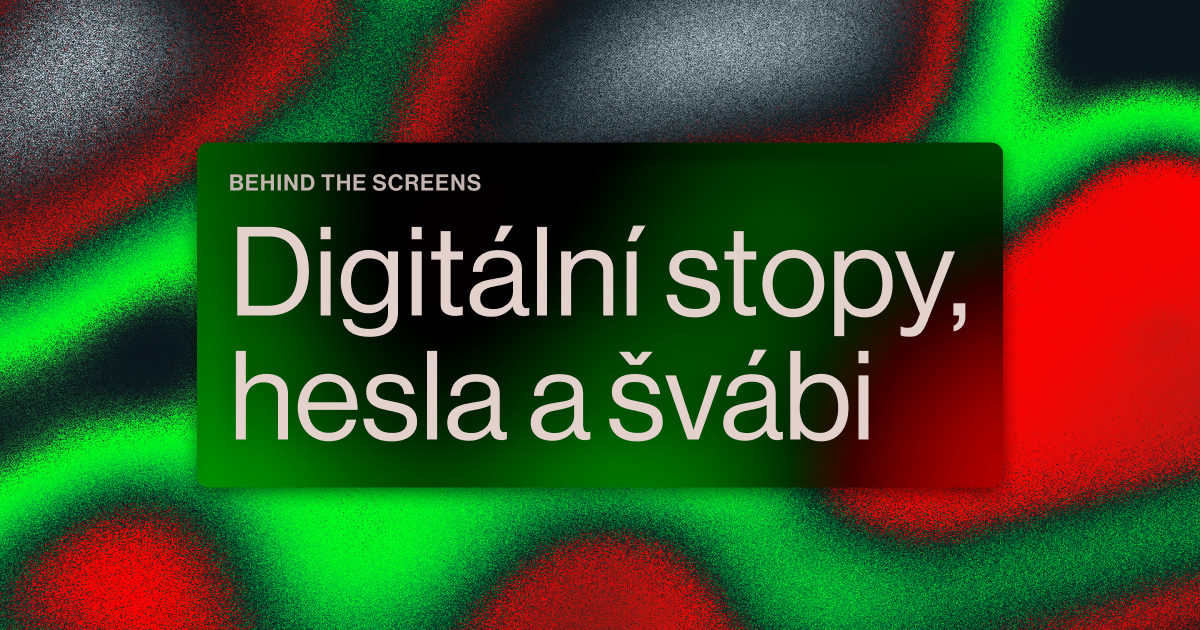
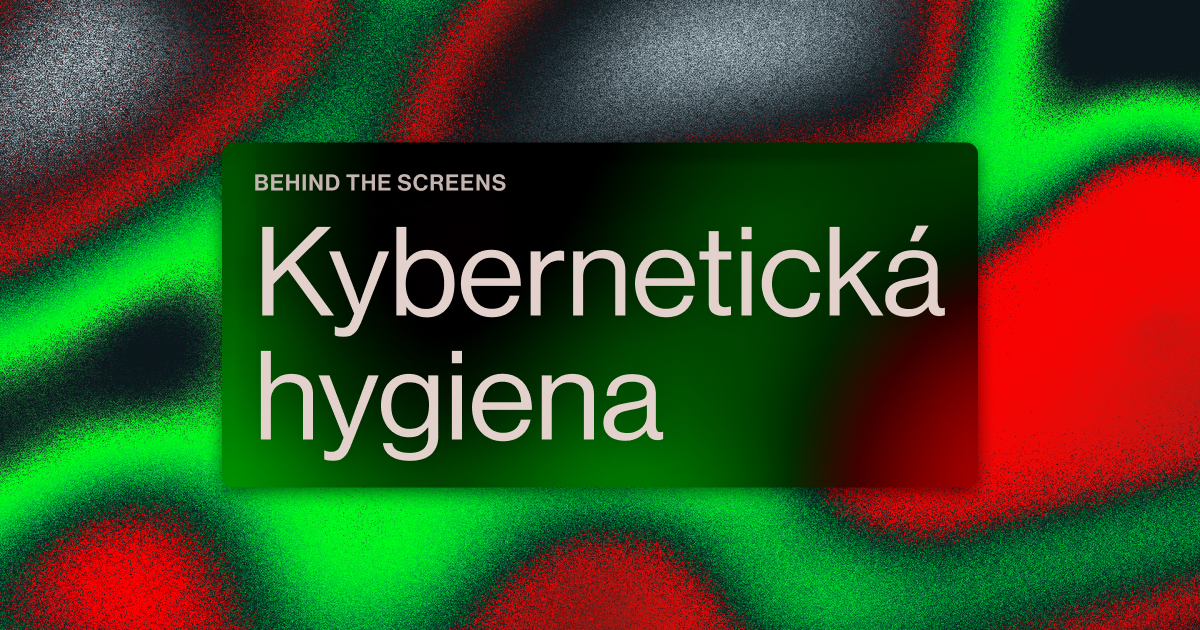
bts-20 edit

Changed region(s): [[0.1542, 0.2111, 0.74, 0.7841], [0.6783, 0.2111, 0.8633, 0.8143]]

diff --git a/_posts/2024-07-31-kyber-hygiena.md b/_posts/2024-07-31-kyber-hygiena.md
@@ -1,0 +1,144 @@
+---
+layout: post
+author: scherrer.txt
+title: "Kybernetická hygiena | Behind the Screens | by Scherrer.txt"
+name: Kybernetická hygiena
+release: 2024/07
+perex: O soukromí, bezpečnosti a redukci digitální stopy z pohledu chronicky online člověka
+order: "20"
+thumbnail: "/images/thumbs/bts-thumb-20.jpg"
+background: "/images/bg/20.avif"
+redirect_from: "/bts20.html"
+published: true
+---
+
+<div id="toc"></div>
+* TOC
+{:toc}
+
+## Rychlý úvod
+Můj červen 2024 měl příchuť mazání neaktivních a nepotřebných účtů a digitálních dat. Vnímám je jako potenciální bezpečnostní riziko — a taky už mám dost nevyžádaných reklamních sdělení a e-mailů s upozorněním, že se mi někdo snaží dostat do nějakýho účtu.
+
+Různý úniky dat (*leak*) se dějou relativně často — unikají data jako e-maily a hesla, adresy bydliště, údaje z občanky a pasu nebo čísla účtu, kreditních karet a PINy. Existují stránky, kde se dá zjistit, jestli vaše hesla/e-mail/jakýkoliv jiný údaje nebyly kompromitovaný — [Have I Been Pwned](https://haveibeenpwned.com/) a [Mozilla Monitor](https://monitor.mozilla.org). Já se v těchhle databázích párkrát našel a nebylo to úplně příjemný zjištění. Ale dá se to řešit. Jak jsem to řešil já?
+
+> Pod hadrama jsme všichni nazí, ale stejně je nosíme. Stejně máme v pokoji záclony anebo závěsy.
+
+## Vždyť je to stejně jedno
+Spousta z nás si při odchodu ze záchodu celkem běžně myje ruce, zamyká při odchodu byt, počítač a mobil má na heslo, používá kondomy nebo aspoň neolizuje zábradlí a madla v MHD — nevidím důvod zůstávat v oblasti kyberbezpečnosti a soukromí jen u důvěry a naděje v lidstvo a dál to neřešit. Better safe than sorry, jak se říká.
+
+Zkusím rozebrat tři nejčastější argumenty, s kterýma jsem se setkal, a říct, proč bezpečnost a soukromí jedno fakt nejsou.
+
+1. **„Stejně už tvoje data mají“**
+    - Jo, je blbý, že třeba Google a Meta mají moje data za posledních ~16 let. Rozhodně to ale není důvod, abych nad tím mávl rukou — to by bylo jako říct, že na co si umývat ruce, když už je mám stejně ušpiněný. Ať si moje starý data nechají, nový jim ale dávat nechci (minimálně ne tak jednoduše).
+
+2. **„Stejně si na tobě nemají co vzít“**
+    - Pod hadrama jsme všichni nazí, ale stejně je nosíme. Stejně máme v pokoji záclony anebo závěsy. Nemám co skrývat. Zároveň ale nepotřebuju, aby měla dostatečně ochotná entita možnost hrabat se v mých datech a zneužívat je, nebo na nich trénovat AI, nebo aby je měla někde na serveru, z kterýho ty data leaknou — a to není otázka „*jestli*“, ale „*kdy*“.
+
+3. **„Tvoje data nikoho nezajímají“**
+    - Já osobně zajímám docela dost lidí z Asie. Aspoň podle asi třiceti varovných e-mailů, který mi v horizontu dvou měsíců přišly od služeb, do kterých se někdo z těchhle zemí snažil (neúspěšně) přihlásit. V tomhle případě navíc ani nejde o moje/tvoje, ale o *naše* data. Jde o to množství hesel a údajů, s kterýma se dá pracovat, který se často kupují v balících po desítkách milionů.
+    - I když je úspěšnost prolomení zabezpečení třeba 0,001 %, z deseti milionů účtů je to pořád tisícovka smolařů, co můžou přijít o úspory nebo přístup k osobním/pracovním účtům.
+
+> Já tuhle možnost měl, tak jsem ji uplatnil. Mrzí mě, že ji lidi přede mnou neměli.
+
+## Kámen, co spustil lavinu
+Nedávno Meta dala svým uživatelům možnost neposkytnout souhlas s trénováním AI na jejich obsahu.[^1] Já byl jeden z těch, co ten souhlas nedal (týhle možnosti se říká „opt-out“). Je mi jedno, že to může působit pokrytecky, když sám používám AI, která je trénovaná na dílech lidí, co tuhle možnost neměli. Já tuhle možnost měl, tak jsem ji uplatnil. Mrzí mě, že ji lidi přede mnou neměli, ale nevidím moc důvodů, proč by mě to mělo v současnosti ovlivňovat.
+
+I přes to, že jsem jim ten souhlas neposkytl, jsem ještě ten den smazal všechny posty na svým grafickým profilu.[^2] Nemám jedinej důvod Metě věřit, že můj nesouhlas bude respektovat — soudě dle jejich historie.[^3] Nebyl by to první případ, kdy by ignorovali nesouhlas uživatelstva.
+
+Situace: sedím u stolu, grafickej profil kompletně vyčištěnej. Co teď?
+
+> Cítil jsem klid na duši, že jsem udělal maximum, co udělat šlo.
+
+## Fuck off, Google
+Kdysi dávno jsem používal aplikaci Fotky od Google jako záložní „disk“ na opravdu hodně osobní věci. V průběhu let jsem na to zapomněl. Nedávno jsem si vzpomněl, takže to byla další položka na seznamu. Když už jsem byl v tom, rovnou jsem si stáhnul na lokální uložiště všechny e-maily z adresy, na kterou byl ten drive vedený. A kromě fotek jsem promazal i celý Google Drive. Ani nevím proč jsem to vzal tak od podlahy, ale na konci tohohle procesu jsem se cítil líp. Ne nutně bezpečněji nebo jako že jsem to teď Googlu hrozně nandal. Spíš jsem cítil určitý klid na duši, že jsem udělal maximum toho, co jsem v ten moment mohl udělat. Jasně, Google už pravděpodobně použil všechny moje data několikrát, ale jak jsem říkal výš — s tím nenadělám nic, můžu jim ale nedávat nový data.
+
+Podobně jsem pročistil i svoji druhou schránku. Tu teď čeká pozvolná archivace a nastavení přesměrování nový pošty na můj [Proton Mail](https://proton.me/mail).[^4] Co se týče dokumentů a tabulek, tak ty stejně poslední dobou píšu v Obsidianu — a pro jistotu mám [Libre Office](https://www.libreoffice.org/).[^5] Asi je nevyhnutelný, že Google programy budu muset kvůli práci do nějaký míry používat, ale s tím jsem v míru. Jde mi o to nevytvářet nový soubory a nemít na svým Drivu nic, co bych nezveřejnil třeba tady.
+
+> Měl jsem asi 500 účtů. Zbylo mi 130.
+
+## Fuck off, (almost) everyone
+Od roku 2011[^6] používám [Firefox](https://www.mozilla.org/en-US/firefox/). S přestávkama — chvíli jsem používal Chrome (což je v podstatě [spyware](https://www.gnu.org/proprietary/malware-google.en.html) a nesmyslný žrout výkonu), chvíli Operu a Operu GX (což je odnedávna taky spyware, akorát [posílají data do Číny](https://www.reddit.com/r/operabrowser/comments/ajmbox/opera_is_spyware/)[^7]), pak jsem experimentoval s Brave a Vivaldi (který by byly v pohodě, kdyby to nebyly jen převlečený Chrome[^8]), než jsem zase zaparkoval u ohnivý lišky.
+
+Při přechodu do novýho prohlížeče jsem si vždycky importoval svoje záložky a hesla. Díky tomu mám docela rozsáhlou databázi hesel a účtů, který jsem si všude možně za ty roky vytvářel. Účtů bylo asi 500. V průběhu let jsem je občas zredukoval, ale až teď byl prostor a důvod na pořádnou čistku.
+
+Zabralo to sice jedno dost dlouhý odpoledne, ale z těch několika stovek účtů mi zbylo 130. Když už jsem byl v tom, u těch zbylých účtů jsem si změnil hesla, odhlásil se z reklamních sdělení a kde mi to přišlo důležitý, tam jsem si nastavil silnější zabezpečení (2FA). Nepamatuju si skoro žádný heslo, protože nemusím.
+
+> Zlatý cyber security pravidlo: pro každý účet jiný heslo
+
+## Nepamatuju si skoro žádný heslo
+Kdo si má jako pamatovat stovky různých hesel? V tom je ten vtip. Podle mě by člověk neměl všude používat zapamatovatelný hesla, ale dvoufázový zabezpečení (2FA, jako two-phase authentication), nějaký authenticator a nějaký password manager. Jediný heslo, který by si měl člověk pamatovat, je tzv. **master password**, kterým se odemyká password manager.
+
+Oukej, co to je za sprostý slova.
+- **Dvoufázový zabezpečení** je to proto, že v první fázi se přihlásím na jednom zařízení (třeba PC), v druhý fázi to přihlášení potvrdím z jinýho zařízení (třeba mobil).
+- **Authenticator** je program, kterej generuje dočasná, šestimístná hesla (mají životnost nejčastěji 30 sekund). V první fázi se člověk přihlašuje běžným heslem, v druhý fázi potvrzuje přihlášení právě tímhle dočasným heslem. V authenticatoru bydlí jen tyhle neustále se generující dočasný hesla a e-mail, ne hesla samotný — od toho je tu password manager. Podle mě je nejlepší authenticator [2FAS](https://2fas.com/), ale někdo možná zná Google Authenticator (ale eww, Google).
+- **Password Manager** je trezor, ve kterým bydlí všechny potřebný údaje k účtu (e-mail adresa/login a hesla). Některý mají funkce jako rozpoznání duplicitních údajů, sdílení, hodnocení a generování nových hesel, a třeba i breach monitoring. Nejznámější jsou [1password](https://1password.com/), [Bitwarden](https://bitwarden.com/) a [Proton Pass](https://proton.me/pass), ale v pohodě mi přijde i integrovaná [Firefox klíčenka](https://www.mozilla.org/en-US/firefox/features/password-manager/), jen nemá tolik funkcí.
+
+> A man of focus, commitment and sheer fucking will.
+
+## Konec dobrý, všechno dobrý? Ne!
+Smazal jsem jeden Instagramový profil a trochu promazal Facebook. Vyčistil jsem dva plný Google Drives a přecházím z Gmailu na Proton. Zrušil jsem přes 200 účtů, změnil si hesla na 130, přešel z Google Authenticatoru na 2FAS, a všude, kde to šlo, jsem si nastavil dvoufáz. A místo Google DNS používám [Cloudfare](https://one.one.one.one/). Na registrace do zbytečných služeb používám dočasný e-mail adresy ([Firefox Relay](https://relay.firefox.com/)). Jako vyhledávač používám [Brave Search](https://search.brave.com/). To už asi můžu bejt docela v klidu, ne?
+
+Ne tak úplně. Zrušit jen tak z jedničky 200 účtů, to člověk neudělá jen tak. Na to je potřeba speciální druh magora. A man of focus, commitment and sheer fucking will. Nedokážu dát do slov, kolik energie to stálo a jak neuvěřitelně nepřátelský proces rušení účtů byly lidský mozky schopný vyplodit. 
+
+Takže tady je druhá, dost podstatná část mý motivace, proč jsem tohle celý podstoupil.
+
+> Nehledej zlý úmysl tam, kde je dostatečným vysvětlením hloupost
+
+## Jako pěkně macatej, mastnej šváb
+Nesnáším online reklamy — i přestože, nebo možná právě protože je občas sám vytvářím. Naštěstí existuje Firefox a [uBlock Origin](https://ublockorigin.com/). Nevím, kdy naposledy jsem nějakou reklamu viděl. Můj internet je čistý a nerušený hnusnýma, nevkusnýma reklamama. A dělám, co můžu, aby to tak zůstalo.[^9]
+
+Má to ale háček — chodí mi e-maily. Některý mě i zajímají nebo se mě týkají. U zbytku ale netuším, proč mi pořád chodí, i přestože jsem už jsem se už několikrát odhlásil z odběru.
+
+Při tomhle odhlašování a rušení účtů jsem se setkal s něčím, co ve mně vzbuzuje podobný pocit naprostýho znechucení, odporu a opovržení, jako kdybych viděl na podlaze pěkně macatýho, mastnýho švába.
+
+[Dark patterns](https://www.deceptive.design/types) jsou to ty nejvíc slizký triky jak donutit uživatelstvo souhlasit s něčím, s čím by jinak nesouhlasili. Nucení k odběru newsletteru/reklamních sdělení při zakládání účtu, skrytá/neexistující možnost zrušit účet, divně popsaný buttony („Ano, nechci × Ne, chci“, místo například „Zrušit účet × Zachovat účet“), prohozený barvy tlačítek, to všechno jsou dark patterns. Úplně trapná je pak hra na city pomocí různých smutných obrázků, emoji a copy ve stylu „Opravdu nás to mrzí a jsme smutní, že chcete odejít :(((( Opravdu se s tím nedá něco dělat? :'((( mocinqi pjosím, nerušte si účet, umře koťátko.“
+
+Vím, že platí Hanlonova břitva („*Nehledej zlý úmysl tam, kde je dostatečným vysvětlením hloupost.*“), nicméně zkušenější UI/UX designeři a designerky (lidi, co vytváří weby, aplikace a mají na starosti mimojiný i návrh procesu rušení účtu) by měli znát/znají best practices a měli by je dodržovat. Ti, co dark pattern i přes to **vědomě** využívají, jsou podle mě bezpáteřní zoufalci. [^10] Nevím, jak se na sebe můžou ráno dívat do zrcadla. Jejich matky se s něma 9 měsíců tahaly a nakonec je z nich tohle. Ugh.
+
+## Konec dobrý, všechno dobrý? Jo…
+Jo, už jo. Náhodných e-mailů mi chodí naprostý minimum — a to, co mi chodí, je 1) manageable, 2) něco, co mě pořád do jistý míry zajímá, 3) ukazatel toho, co jsem opomněl zrušit a odhlásit (vždycky něco člověku unikne).
+
+Kdyby někoho zajímalo, kam si chodit pro informace ohledně privacy, tak bych doporučil [r/Privacy](https://www.reddit.com/r/privacy/), potažmo [r/cybersecurity](https://www.reddit.com/r/cybersecurity/), [blog Mozilly](https://blog.mozilla.org/en/), kde informujou o aktuálním dění, a kanál [Louis Rossmann](https://www.youtube.com/@rossmanngroup). [LinusTechTips](https://www.youtube.com/@LinusTechTips) se tématu taky občas věnuje a má docela zajímavý informace a alternativy.
+
+## Co si z toho vzít
+Jak jsem říkal výš, svět je dost komplikovanej sám o sobě. Proto miluju hledat cesty, jak jednou něco nastavit, ideálně tak, aby to prostě fungovalo a/nebo abych to nemusel řešit následujících pár let. Set up and forget, se tomu říká. Následující tipy, kterých se sám držím, z týhle filozofie dost vychází.
+
+1. **Nepoužívat všude stejný heslo** a když už, tak ho opepřit. **Pepření** je to, že mám nějaký heslo, třeba „heslo“, za který dám nějaký náhodný znaky, třeba „1_?#2č“. Ty náhodný znaky jsou pro každej účet jiný. V tomhle případě i kdybych používal všude stejný „heslo“, tak pokud ho vždycky opepřím trochu jinak, pořád bude dost obtížně prolomitelný.
+- **Doporučuju pepřit nebo si hesla generovat prohlížečem**.
+
+2. **Nepoužívat hesla** ve smyslu pass**word**, kdy je heslem nějaký jedno slovo nebo řetěz písmen (cokoliv od „heslo“ po „N7qm!_C#9A@“), ale ve smyslu pass**phrase**. Taková fráze může vypadat třeba „*5 armád_Rozhořčených! krabů bilo se na Deseti polích*“, což je úplně nesmyslná fráze, ale je tak absurdní, že jde docela dobře zapamatovat, navíc je plná speciálních znaků (reminder: mezery jsou speciální znak, stejně jako otazník a podjebník), znaků s diakritikou, je extrémně dlouhá, a střídají se v ní velký a malý písmena. Vesmír existuje zhruba 13 830 000 000 let. Prolomit tohle heslo by trvalo 36 000 000 000 000 000 000 000 000 000 000 000 000 000 000 000 000 000 000 000 000 000 000 000 000 000 000 000 000 000 000 000 000 000 000 000 000 000 let (podle [Delinea](https://delinea.com/resources/password-strength-checker)). I kdyby se vzala každá molekula každý existující věci — zrnko prachu, strom, foton — na každý planetě, v každý galaxii, v celým vesmíru, tak to nebude **ani zdaleka** tak velký číslo jako je tohle.
+- **Doporučuju se inspirovat na [StrongPhrase](https://strongphrase.net/)**.
+
+3. **Nebát se používat 2FA**, protože i když někdo náhodou prolomí heslo (have fun s krabama), pořád se nedostanou přes dvoufáz (ledaže by měli po ruce i můj odemknutý mobil, ale to už mám úplně jinej problém).
+- **Doporučuju [2FAS](https://2fas.com)**.
+
+4. **Používat nějakou klíčenku na hesla je fajn**, protože si člověk nemusí žádný heslo pamatovat, na mobilu i v prohlížeči se při přihlašování vládají automaticky, a některý klíčenky mají možnost kontroly síly hesel, jejich generování i monitorování.
+- **Dopuručuju [Firefoxu](https://www.mozilla.org/en-US/firefox/new/) nebo [Proton Pass](https://proton.me/pass)**.
+
+5. **Jednorázový e-maily** jsou life saver. Pokud se někde chci zaregistrovat, abych jednorázově něco udělal (využil nějakou akci, něco si stáhl, něco získal), přičemž neplánuju ten vytvořený účet dál používat a zároveň se nechci dealovat s dark patterns rušení účtu, tak jednorázový e-maily jsou na tohle skvělý. Člověk má možnost si vytvořit účet, potvrdit e-mailovou adresu, udělat zamýšlenou aktivitu a pak stačí jen ten e-mail smazat.
+- **Doporučuju [Firefox Relay](https://relay.firefox.com/accounts/profile/) nebo [SimpleLogin](https://simplelogin.io/) od Protonu**.
+
+6. **Nepoužívat adblock je cringe**. Život je příliš krátkej na to sedět u tří 30sekundových nepřeskočitelných reklam na YouTube. Tvůrci a tvůrkyně jdou podpořit i mnohem líp a efektivněji, jestli jde o to.
+- **Jediný funkční adblock je [uBlock Origin](https://ublockorigin.com/)**.
+
+7. **Nepoužívat Google Chrome**, protože, mimojiné, znemožňuje uživatelstvu používat adblock. Alternativy jsou Brave a Vivaldi (kdybych si měl vybrat, tak Brave, má zajímavější ekosystém). Pro fajnšmekry (a lidi, co ví, co je „fork“) je tu Floorp, Waterfox nebo Librewolf, ale na nich dělají zpravidla malý týmy a jejich vývoj je buď pomalý, zaostává nebo po roce prostě zamrzne. Je tu i Tor, který proslul díky dark webu, ale s ním nemám tolik zkušeností a pro laiky je spíš nebezpečný.
+- **Doporučuju Firefox**.
+
+8. **Nepoužívat Google jako výchozí vyhledávač**. Je sice celkem jedno, v kterým prohlížeči za svůj dotaz napíšete „reddit“, ale Brave vám to pak aspoň nebude mlátit o hlavu na každým dalším kroku. Nesledují uživatelstvo, jejich vyhledávání nebo jejich kliky. Brave má navíc svůj vlastní vyhledávací index, to znamená, že při vyhledávání může člověk narazit na věci, který by přes Google nenašel (protože cenzura, protože reklamy, protože biasy). Dlouho jsem používal DuckDuckGo, ale ten používá Bing jako zdroj, což není úplně ideální (protože závislost na Microsoftu, protože cenzura).
+- **Doporučuju [Brave Search](https://brave.com/search/)**, ale na mapy pořád používám Google.
+
+
+## Poznámky pod čarou
+
+{: data-content=“footnotes“}
+
+[^1]: Tohle rozhodně od Mety nevnímám jako něco, za co jim patří bonusový bodíky. Není to něco, co dělají z dobroty duše, jen si kryjou prdel před žalobama — tak, jak to mělo udělat Midjourney, OpenAI a jakejkoliv AI startup, co dneska frčí. Možnost nesouhlasit by měla být naprostej základ.
+[^2]: Tenhle profil i Instagram celkově je pro to, co dělám a jakej jsem teď člověk, relativně k ničemu. Přidávám tam už jen teasery na tyhle články, a to hlavně proto, aby o tom věděli mí lidi (čauko všem mým lidem!). Mnohem radši se o nových eskapádách svýho kámošstva dozvím třeba u pivka než ze stories. Nechci podporovat to, že ze svýho života dělají obsah pro sítě místo obsahu pro pokec u pivka. Ale to už jsem off-topic, víc jsem o svým vztahu k sociálním sítím napsal [tady]({{ site.url }}/bts07.html), za ty roky se toho vlastně moc nezměnilo.
+[^3]: Trvalo to asi půl hodiny, celý to mám natočený, plánuju z toho pak něco udělat, ale ještě nevím co.
+[^4]: Proton je švýcarská firma, která poskytuje zatím asi nejdůvěryhodnější a nejzabezpečenější e-mail
+[^5]: Libre Office je balík open-source programů (něco jako Microsoft Office), který je zadarmo, funguje, jdou v něm otevírat Microsoftí soubory (dlouho jsem teda žádný .docx nebo .xls neviděl, přiznám se).
+[^6]: Myslím si, že Firefox stoprocentně používám dýl — třeba od roku 2008-2009 —, ale rok 2011 mám podložený screenshoty.
+[^7]: Kdo neví, tak v Číně platí National Intelligence Law (2017), zákon, který zavazuje jednotlivce, organizace a instituce k podpoře a spolupráci s rozvědkou. [Víc o tom tady](https://www.chinalawtranslate.com/en/what-the-national-intelligence-law-says-and-why-it-doesnt-matter/).
+[^8]: Oba prohlížeče totiž fungujou na jádře Chromium, který vytvořil Google, na kterým běží Chrome. To jádro je open source, každý může nahlídnout do zdrojovýho kódu a třeba se ujistit, co dělá nebo nedělá. Anebo do kódu přispět. Anebo si udělat vlastní prohlížeč. Problém je, že takový prohlížeč pak bude mít stejný neduhy, jako Chrome. Navíc Brave má na mě možná až moc silnou crypto příchuť, kterou u prohlížeče úplně nepotřebuju.
+[^9]: Současnej internet prostě vypadá jako hovno — tady cookies lišta a hned po ní pop-up (*a po něm pro jistotu občas ještě jeden další*), támhle animovaný banner a odpočítávání a „*POZOR! sleva jen 10 % [za nějaký osobní data] pro Vás!*“, to celý zabalený do captivating mikrointerakcí — a tichá většina lidí si na to, bohužel, zvykla. A je mi jich líto. Fucking nechtěl bych.
+[^10]: Ten zásadní problém je, že to U v UI/UX znamená „user“, uživatel. Dark patterns jsou ale vyloženě anti-uživatelský, protože neslouží tvorbě/podpoře pozitivního uživatelskýho zážitku. Dark patterns jsou víc než cokoliv jinýho nástroj, jak amorálním způsobem v co nejkratší době přinést co největší zisky nebo je za každou cenu zachovat. Nemůžeš přijít o platící uživatele, když jim nedáš možnost si zrušit účet.
